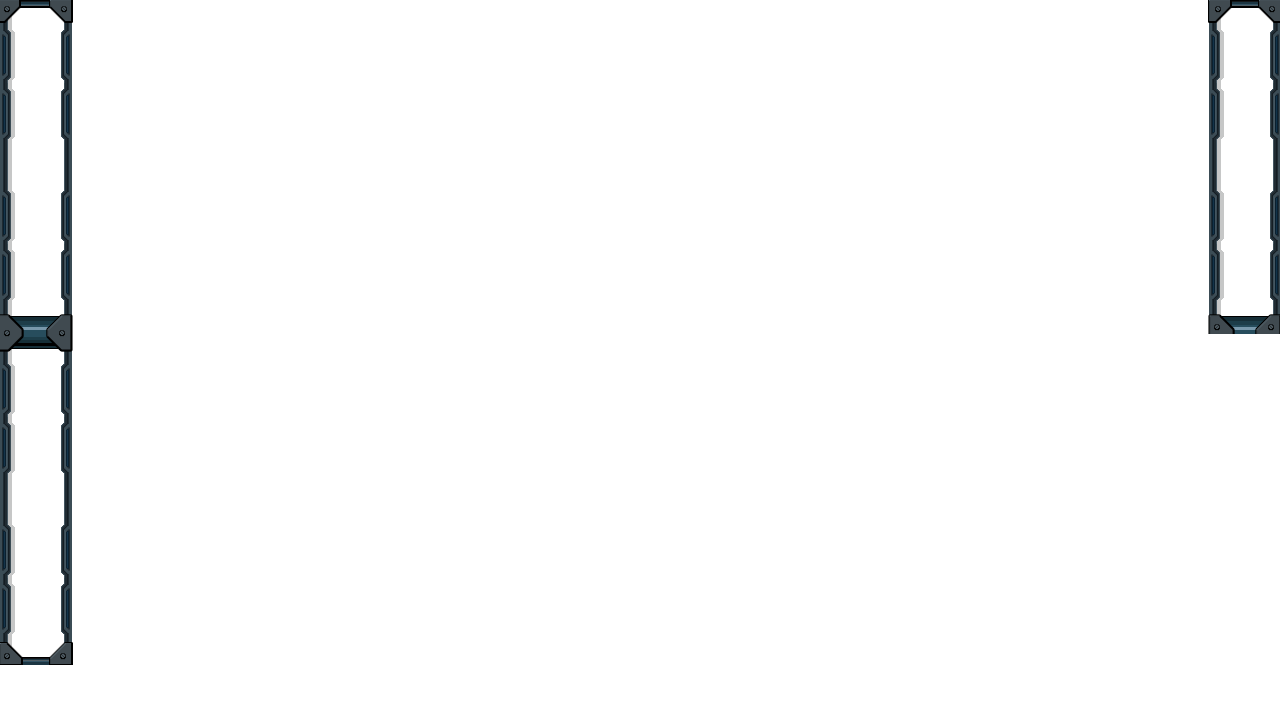
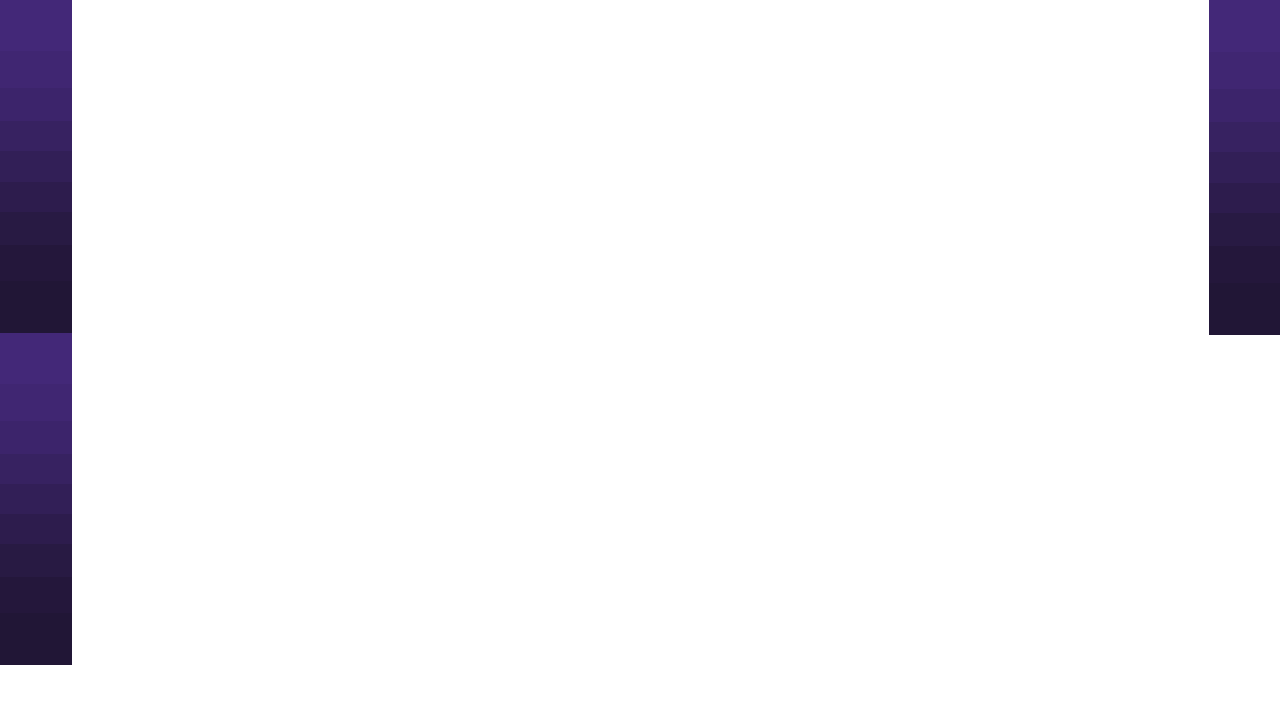
Game Boy layouts update

Changed region(s): [[0.0, 0.0, 0.0625, 0.9472], [0.9375, 0.0, 1.0, 0.4889]]

diff --git a/graphics/gameboy_2.html b/graphics/gameboy_2.html
@@ -2,7 +2,7 @@
 <html lang="en">
 <head>
 	<meta charset="UTF-8">
-	<title>Game Boy, 3 Player</title>
+	<title>Standard, 2 Player</title>
 	<link rel="stylesheet" href="style/layout.css">
 	<link rel="import" href="../shared/imports/gsap.html">
 	<link rel="import" href="elements/gdq-nameplate/gdq-nameplate.html">
@@ -10,81 +10,81 @@
 	<link rel="import" href="elements/gdq-timer/gdq-timer.html">
 	<link rel="import" href="elements/gdq-twitter/gdq-twitter.html">
 	<link rel="import" href="elements/gdq-sponsors/gdq-sponsors.html">
+
 	<custom-style>
 		<style>
 			gdq-nameplate {
-				--gdq-nameplate-width: 330px;
+				top: 493px;
+				--gdq-nameplate-width: 349px;
 			}
 
 			gdq-nameplate:nth-of-type(1) {
-				top: 232px;
-				left: 446px;
+				right: 855px;
 			}
 
 			gdq-nameplate:nth-of-type(2) {
-				top: 286px;
-				right: 446px;
-			}
-
-			gdq-nameplate:nth-of-type(3) {
-				top: 340px;
-				left: 446px;
+				left: 855px;
 			}
 
 			gdq-runinfo {
-				left: 445px;
-				top: 10px;
-				width: 392px;
-				height: 153px;
-				--gdq-runinfo-misc-height: 40px;
+				bottom: 38px;
+				width: 425px;
+				height: 100px;
+				--gdq-runinfo-misc-height: 29px;
 			}
 
 			gdq-timer {
-				left: 445px;
-				top: 163px;
-				height: 53px;
-				width: 392px;
+				left: 0;
+				bottom: 0;
+				height: 38px;
+				width: 425px;
+				padding-left: 12px;
+				font-size: 33px;
 				padding-bottom: 7px;
 			}
 
 			gdq-twitter {
+				bottom: 0;
+				right: 0;
+				width: 426px;
+				height: 180px;
+				padding-right: 12px;
+
 				--gdq-twitter-body: {
-					font-size: 21px;
+					font-size: 25px;
 					padding-top: 50px;
 				};
 				--gdq-twitter-namebar: {
-					width: 323px;
-					height: 54px;
+					width: 344px;
+					height: 50px;
 					margin-bottom: -12px;
-					margin-left: 35px;
 					padding-bottom: 12px;
 					font-size: 21px;
 				};
 			}
 
-			gdq-twitter,
 			gdq-sponsors {
 				bottom: 0;
-				left: 443px;
-				width: 395px;
-				height: 270px;
+				right: 0;
+				width: 426px;
+				height: 140px;
+				padding-right: 12px;
+
 			}
 		</style>
 	</custom-style>
 </head>
 <body>
 	<div id="container">
-		<img id="addon" src="img/backgrounds/gb3_addon.png">
-		<img id="background" src="img/backgrounds/standard_3_bg.png">
-		<gdq-runinfo></gdq-runinfo>
+		<img id="addon" src="img/backgrounds/gb2_addon.png">
+		<img id="background" src="img/backgrounds/standard_2_bg.png">
+		<gdq-runinfo max-name-size="28" single-line-name></gdq-runinfo>
 		<gdq-timer></gdq-timer>
 		<gdq-sponsors></gdq-sponsors>
 		<gdq-twitter></gdq-twitter>
-		<gdq-nameplate index="0" attach-left></gdq-nameplate>
-		<gdq-nameplate index="1" attach-right></gdq-nameplate>
-		<gdq-nameplate index="2" attach-left></gdq-nameplate>
-		<img id="foreground" src="img/backgrounds/standard_3_fg.png">
-
+		<gdq-nameplate index="0" attach-right></gdq-nameplate>
+		<gdq-nameplate index="1" attach-left></gdq-nameplate>
+		<img id="foreground" src="img/backgrounds/standard_2_fg.png">
 	</div>
 
 	<script>

diff --git a/graphics/gameboy_1.html b/graphics/gameboy_1.html
@@ -23,7 +23,7 @@
 				left: 0;
 				top: 0;
 				width: 542px;
-				height: 161px;
+				height: 167px;
 				--gdq-runinfo-misc-height: 38px;
 
 			}

diff --git a/graphics/style/layout.css b/graphics/style/layout.css
@@ -24,5 +24,5 @@
 
 #container > #addon {
 	pointer-events: none;
-	z-index: 11;
+	z-index: -11;
 }
